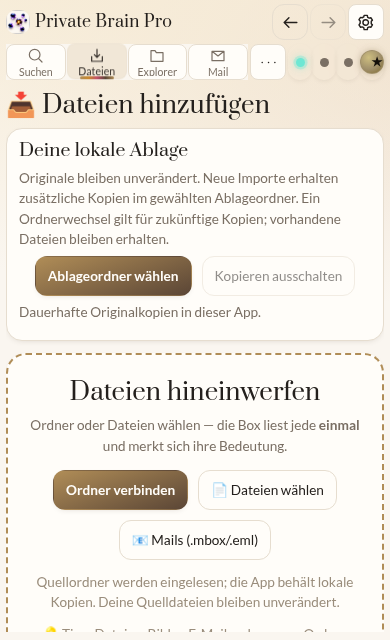
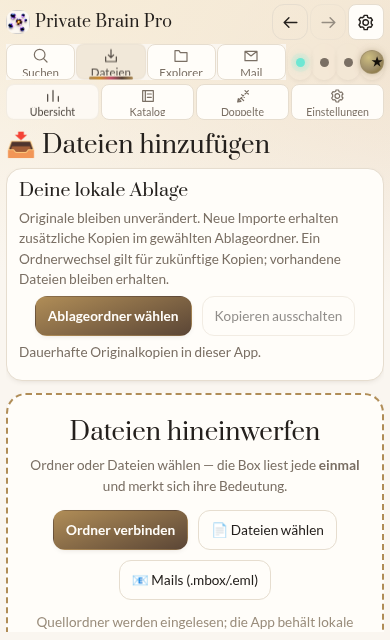
Alle acht App-Ansichten auch auf dem Handy direkt anzeigen

Changed region(s): [[0.0, 0.0625, 0.9846, 0.6562], [0.0615, 0.6562, 0.9231, 1.0]]

diff --git a/native/native-toolbar.js b/native/native-toolbar.js
@@ -10,7 +10,7 @@
   const offText=i=>(offlineWords[document.documentElement.lang]||offlineWords.de)[i];
   document.querySelector('header .badge-off')?.remove();
   const text=i=>(strings[document.documentElement.lang]||strings.de)[i];
-  const captions={de:['Suchen','Dateien','Explorer','Mail','Dashboard','Katalog','Doppelte','Einstellungen'],en:['Search','Files','Explorer','Mail','Dashboard','Catalog','Duplicates','Settings'],ru:['Поиск','Файлы','Проводник','Почта','Обзор','Каталог','Дубликаты','Настройки'],pl:['Szukaj','Pliki','Eksplorator','Poczta','Pulpit','Katalog','Duplikaty','Ustawienia']};
+  const captions={de:['Suchen','Dateien','Explorer','Mail','Übersicht','Katalog','Doppelte','Einstellungen'],en:['Search','Files','Explorer','Mail','Overview','Catalog','Duplicates','Settings'],ru:['Поиск','Файлы','Проводник','Почта','Обзор','Каталог','Дубликаты','Настройки'],pl:['Szukaj','Pliki','Eksplorator','Poczta','Pulpit','Katalog','Duplikaty','Ustawienia']};
   const pages=['search','intake','explorer','mail','dash','order','dupes','settings'];
   const paths={
     search:'M21 21l-5-5 M18 10a8 8 0 1 1-16 0 8 8 0 0 1 16 0',
@@ -93,16 +93,15 @@
     finally{offlineButton.disabled=false;networkLabel();}
   };networkLabel();
   const phone=matchMedia('(max-width:650px)');
-  function resize(){more.open=!phone.matches;options.open=false;}
+  function resize(){more.open=true;options.open=false;}
   phone.addEventListener('change',resize);resize();
   optionsPanel.addEventListener('click',event=>{if(event.target.closest('button'))options.open=false;});
-  secondary.addEventListener('click',event=>{if(phone.matches&&event.target.closest('button')){more.open=false;moreTitle.focus();}});
   document.addEventListener('click',event=>{
-    for(const menu of [options,...(phone.matches?[more]:[])])if(menu.open&&!menu.contains(event.target))menu.open=false;
+    if(options.open&&!options.contains(event.target))options.open=false;
   });
   document.addEventListener('keydown',event=>{
     if(event.key!=='Escape')return;
-    const opened=[options,...(phone.matches?[more]:[])].find(menu=>menu.open);
+    const opened=options.open?options:null;
     if(opened){event.preventDefault();opened.open=false;opened.querySelector('summary').focus();}
   });
   const keys={refresh:'refresh',compose:'compose',import:'intake',reply:'reply',forward:'forward',back:'back',tools:'more',messageTools:'more',

diff --git a/native/native.css b/native/native.css
@@ -279,3 +279,17 @@ header.top .tools { display:flex;flex:none;flex-wrap:nowrap;align-items:center;g
 #panel-dash .tile { display:block!important; }
 #panel-dash .tile .k { letter-spacing:normal;text-transform:none; }
 #panel-dash .tile .k,#panel-dash .tile .v,#panel-dash .tile .u { display:block;overflow-wrap:anywhere; }
+
+/* All eight app views stay directly available; small windows use two flat rows. */
+.native-more>summary { display:none!important; }
+@media(max-width:650px) {
+  .native-toolbar-row { display:grid;grid-template-columns:minmax(0,1fr) auto;gap:4px 2px; }
+  .native-toolbar-row .main-pages { grid-column:1;grid-row:1; }
+  .native-toolbar-row>#sbkim-widget { grid-column:2;grid-row:1; }
+  .native-toolbar-row .native-more { grid-column:1/-1;grid-row:2;min-width:0; }
+  .native-more>.workspace-tools { position:static;display:flex;flex-direction:row;gap:2px;width:100%;padding:0;border:0;border-radius:0;box-shadow:none;background:transparent; }
+  .native-more .workspace-tools .tab { flex:1 1 0;width:auto;min-width:0;padding:3px 1px!important;flex-direction:column;justify-content:center;gap:3px; }
+  .native-more .workspace-tools .compact-icon { width:16px;height:16px; }
+  .native-more .workspace-tools .compact-caption { font-size:.66rem;max-width:100%;overflow:hidden;text-overflow:ellipsis; }
+  .native-toolbar-row .main-pages .compact-caption { font-size:.72rem; }
+}

diff --git a/docs/design/compact15/README.md b/docs/design/compact15/README.md
@@ -4,8 +4,8 @@ Synthetische Dateien, Konten und Nachrichten; keine Nutzerdaten. Stand 2026-10-2
 
 `import-*`, `dashboard-*` und `mail-*` zeigen die Ansichten bei 320, 390, 768 und
 1280 CSS-Pixeln. Hauptansichten bleiben benannt, auf dem Handy unter dem Symbol.
-Weitere Ansichten öffnen sich auf kleinen Fenstern im Menü „…“. Desktopansichten
-zeigen auch deren Namen. Mailwerkzeuge bleiben kompakte Symbole mit sichtbaren
+Übersicht, Katalog, Doppelte und Einstellungen stehen auch auf dem Handy direkt
+in einer zweiten flachen Zeile. Desktopansichten zeigen alle acht benannten Ansichten. Mailwerkzeuge bleiben kompakte Symbole mit sichtbaren
 Tooltips. Die Kacheln des Dashboards sind kleiner und öffnen Dateien, Kategorien
 und Duplikate. Die drei großen Hinweisboxen sind zu einem kleinen Hinweis unter
 dem Einwurf zusammengefasst.

diff --git a/docs/BESCHRIFTUNGEN-UND-ORDNER.md b/docs/BESCHRIFTUNGEN-UND-ORDNER.md
@@ -3,8 +3,9 @@
 Stand 2026-10-20, technische Version 0.1.0-preview.15.
 
 Die obere Navigation zeigt kurze Namen neben den Symbolen, auf dem Handy darunter.
-Sie bleibt eine flache Zeile. Weitere Ansichten stehen auf dem Handy im Menü „…“;
-im aufgeklappten Menü und auf dem Desktop sind ihre Namen sichtbar. Einstellungen
+Alle acht Ansichten bleiben direkt sichtbar. Auf dem Handy gibt es dafür zwei
+flache Zeilen, jeweils mit Symbol und kurzem Namen. Auf dem Desktop stehen die
+Ansichten gemeinsam in einer Zeile. Einstellungen
 und App-Menü haben ein Zahnrad; der Themewechsel behält das Mondsymbol.
 
 Alle kompakten Symbolknöpfe zeigen einen eigenen sichtbaren Tooltip bei Mauszeiger
